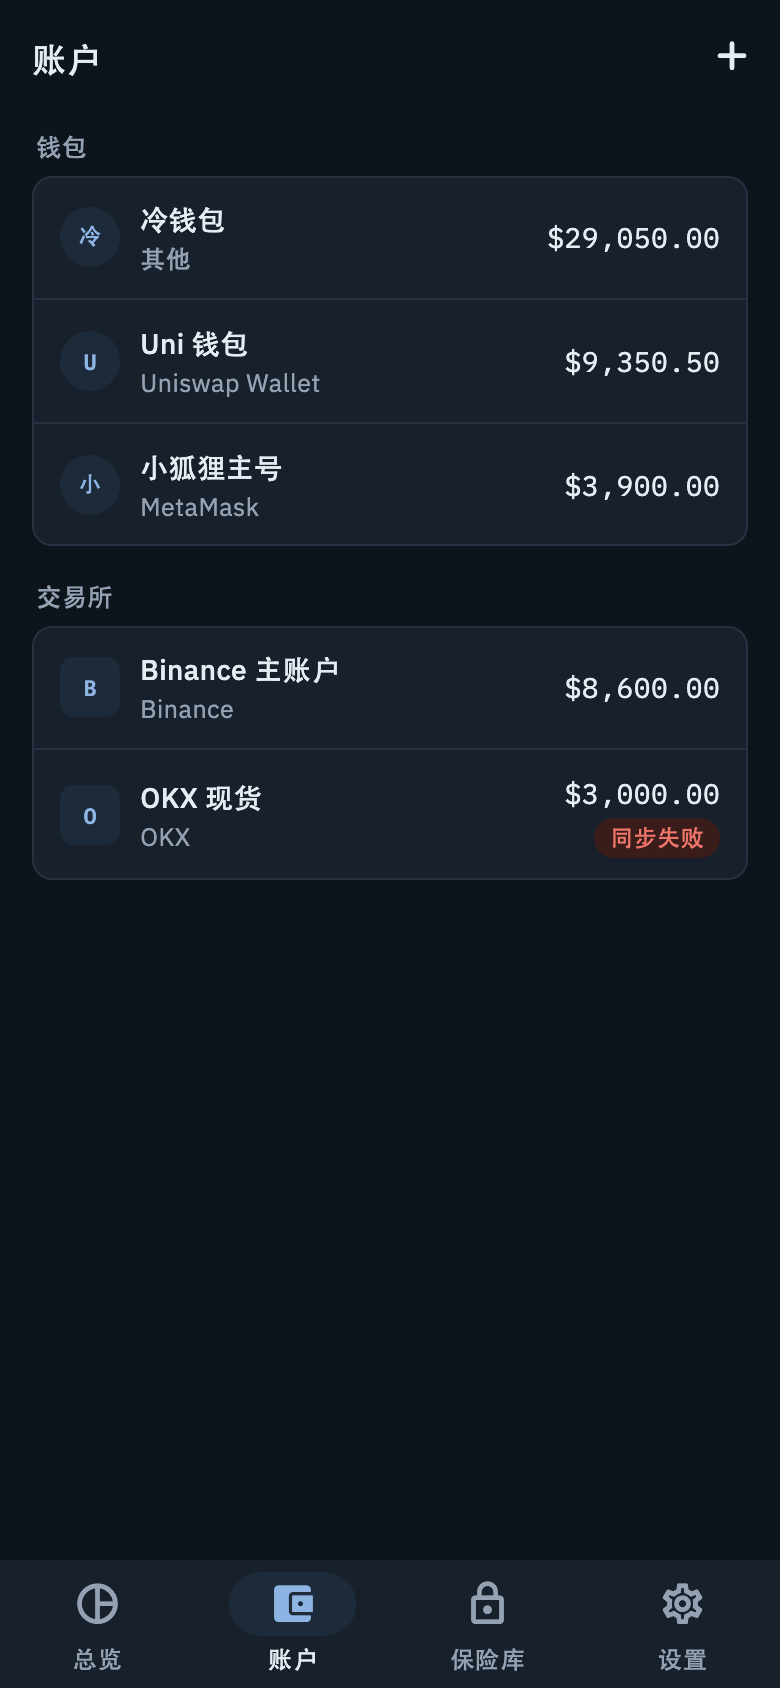
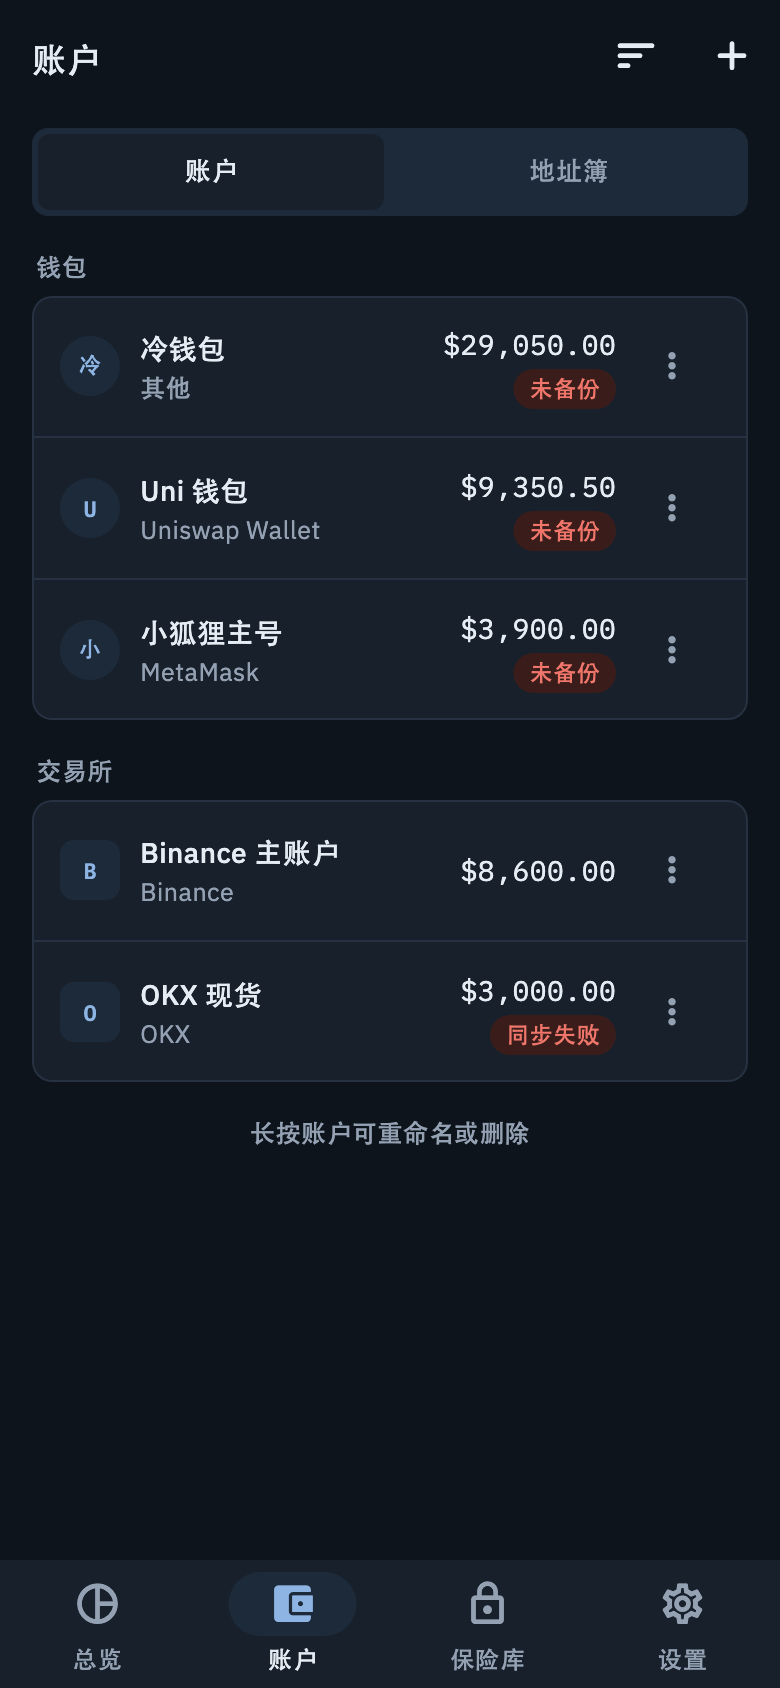
fix(accounts): address M3-03 review comments on DeleteAccount order and screenshots

diff --git a/packages/ow_application/lib/src/accounts/delete_account.dart b/packages/ow_application/lib/src/accounts/delete_account.dart
@@ -2,8 +2,9 @@ import 'package:ow_domain/ow_domain.dart';
 
 /// 删除账户（P03、P08、R6）。
 ///
-/// 级联删除其地址、持仓与同步记录（由 [AccountRepository.delete] 保障），
-/// 并清理可能存在的交易所 API 凭据（由 [CredentialRepository.delete] 保障）。
+/// 先清理可能存在的交易所 API 凭据（由 [CredentialRepository.delete] 保障），
+/// 再级联删除其地址、持仓与同步记录（由 [AccountRepository.delete] 保障）。
+/// 该顺序确保凭据删除失败时账户不会被先行删除，避免遗留无法清除的凭据。
 /// 操作为幂等操作，账户不存在时仍返回成功。
 final class DeleteAccount {
   const DeleteAccount({required this.accounts, required this.credentials});
@@ -13,8 +14,8 @@ final class DeleteAccount {
 
   /// 删除账户 [accountId]。
   Future<Result<void>> call(String accountId) async {
-    await accounts.delete(accountId);
     await credentials.delete(accountId);
+    await accounts.delete(accountId);
     return const Ok(null);
   }
 }

diff --git a/packages/ow_application/test/accounts/delete_account_test.dart b/packages/ow_application/test/accounts/delete_account_test.dart
@@ -66,5 +66,16 @@ void main() {
       expect(await accounts.byId('w1'), isNotNull);
       expect(await accounts.byId('e1'), isNotNull);
     });
+
+    test('凭据删除抛异常时_先删凭据失败导致中止_账户与凭据仍然存在', () async {
+      credentials.deleteError = Exception('Secure storage IO error');
+
+      expect(() => deleteAccount('e1'), throwsA(isA<Exception>()));
+
+      // 账户必须仍然保留，不能已被删除
+      expect(await accounts.byId('e1'), isNotNull);
+      // 凭据也仍在
+      expect(await credentials.load('e1'), isNotNull);
+    });
   });
 }

diff --git a/packages/ow_application/test/fakes/fake_repositories.dart b/packages/ow_application/test/fakes/fake_repositories.dart
@@ -291,6 +291,7 @@ final class InMemoryAssetRepository implements AssetRepository {
 
 final class FakeCredentialRepository implements CredentialRepository {
   final Map<String, ExchangeCredentials> _creds = {};
+  Object? deleteError;
 
   @override
   Future<void> save(String accountId, ExchangeCredentials c) async {
@@ -303,6 +304,8 @@ final class FakeCredentialRepository implements CredentialRepository {
 
   @override
   Future<void> delete(String accountId) async {
+    final err = deleteError;
+    if (err != null) throw err;
     _creds.remove(accountId);
   }
 

diff --git a/docs/IMPLEMENTATION_SPEC_v1.0.md b/docs/IMPLEMENTATION_SPEC_v1.0.md
@@ -440,7 +440,7 @@ abstract interface class DeviceIntegrity { Future<bool> looksCompromised(); }
 - `AddWalletAccount`、`AddAddressesToAccount` 不触发同步，由调用它们的控制器在成功后调用 `SyncAccount`。
 - `AddWalletAccount` 经 `AccountRepository.insertWithAddresses` 在一个事务里写入账户与地址；`DeleteAddress` 保证账户至少保留一个地址（否则 `ValidationFailure`），删除地址时同事务清掉它的持仓，不触发同步（P07 的控制器随后重新同步该账户）。
 - `RenameAccount` 校验账户是否存在（不存在返回 `ValidationFailure`）与新名称（1–30 字，首尾去空白，否则返回 `ValidationFailure`），通过 `AccountRepository.upsert` 更新账户名称并返回更新后的账户。
-- `DeleteAccount` 删除指定账户：调用 `AccountRepository.delete` 级联删除地址、持仓与同步记录，并调用 `CredentialRepository.delete` 清理可能存在的交易所凭据（幂等操作）。
+- `DeleteAccount` 删除指定账户：必须先调用 `CredentialRepository.delete` 清理可能存在的交易所凭据，再调用 `AccountRepository.delete` 级联删除地址、持仓与同步记录（操作幂等；若凭据删除失败则中止，避免账户已删而残留无法清理的 API 密钥）。
 - `SyncAccount.watchSyncingAccountIds()` 推送正在同步的账户 id 集合（订阅时先推送当前集合）；页面用它显示"同步中"。成功的同步记录写入时，仓储同时更新账户的最近成功时间。
 - `DuplicateAddressFailure.kind`：`existing`（带账户名）、`withinInput`（本次输入内重复）、`ownerMissing`（地址在库中但所属账户不存在，数据异常，界面提示"该地址已存在于本应用中"）。
 - `UnsupportedFailure.reason`：`platform`（当前设备不支持，默认）、`notIntegrated`（该链或交易所尚未接入，构造函数 `UnsupportedFailure.notIntegrated`）。`failureTypeName` 对后者返回 `UnsupportedFailure.notIntegrated`，使同步记录能还原原因。
